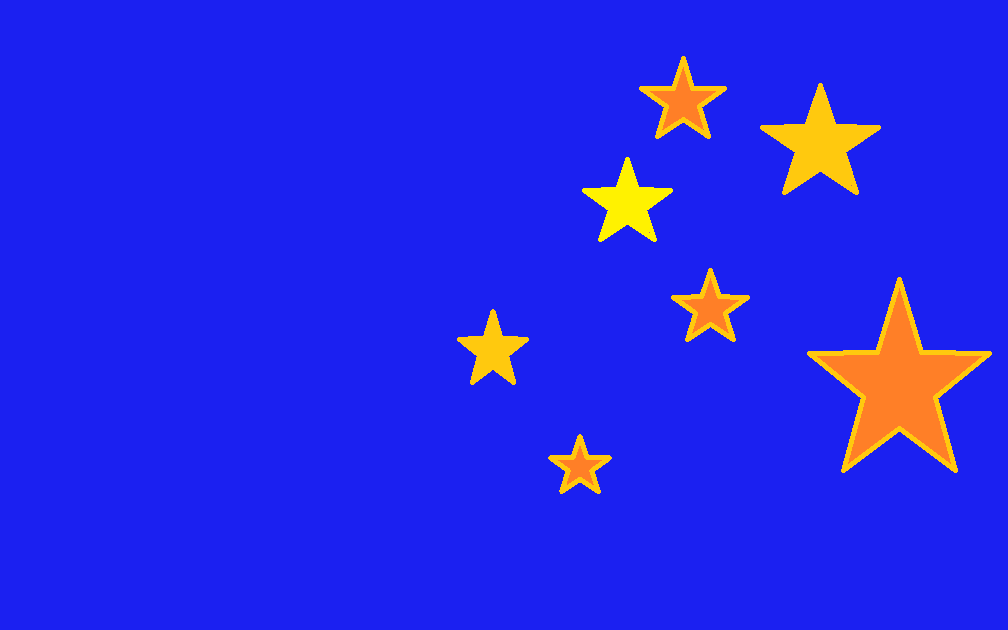
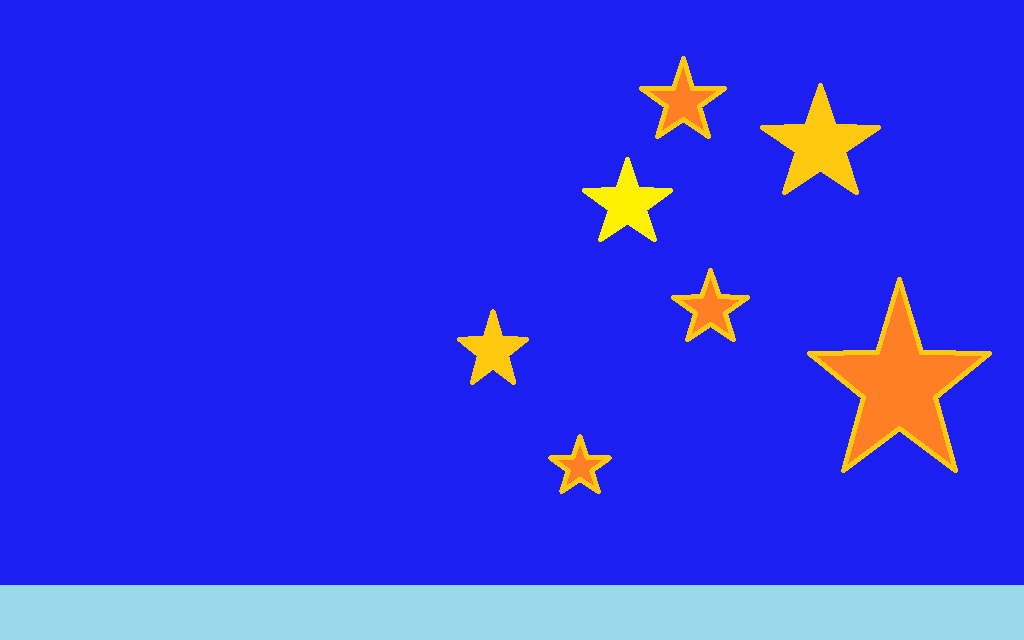
Stilat desktopen & knappen.

diff --git a/5-pwd/style.css b/5-pwd/style.css
@@ -1,3 +1,66 @@
-body
-{
+/* CSS-Reset */
+html, body, div, span, applet, object, iframe,
+h1, h2, h3, h4, h5, h6, p, blockquote, pre,
+a, abbr, acronym, address, big, cite, code,
+del, dfn, em, img, ins, kbd, q, s, samp,
+small, strike, strong, sub, sup, tt, var,
+b, u, i, center,
+dl, dt, dd, ol, ul, li,
+fieldset, form, label, legend,
+table, caption, tbody, tfoot, thead, tr, th, td,
+article, aside, canvas, details, embed, 
+figure, figcaption, footer, header, hgroup, 
+menu, nav, output, ruby, section, summary,
+time, mark, audio, video {
+	margin: 0;
+	padding: 0;
+	border: 0;
+	font-size: 100%;
+	font: inherit;
+	vertical-align: baseline;
+}
+/* HTML5 display-role reset for older browsers */
+article, aside, details, figcaption, figure, 
+footer, header, hgroup, menu, nav, section {
+	display: block;
+}
+body {
+	line-height: 1;
+}
+ol, ul {
+	list-style: none;
+}
+blockquote, q {
+	quotes: none;
+}
+blockquote:before, blockquote:after,
+q:before, q:after {
+	content: '';
+	content: none;
+}
+table {
+	border-collapse: collapse;
+	border-spacing: 0;
+}
+
+/* Min CSS-kod */
+body {
+    background-color:black;
+}
+
+#desktop {
+    height:640px;
+    width:1024px;
+    background-image:url('defaultbackground.png');
+    margin-left:325px;
+    margin-top:150px;
+}
+
+#button {
+    margin-top:587px;
+    margin-left:5px;
+    height:50px;
+    -moz-border-radius: 15px;
+    border:1px solid black;
+    border-radius: 15px;
 }

diff --git a/5-pwd/index.html b/5-pwd/index.html
@@ -7,10 +7,8 @@
     <link rel="stylesheet" href="style.css" />
 </head>
 <body>
-    <div id="background">
-        <div id="foreground">
-            <div id="button"></div>
-        </div>
+    <div id="desktop">
+        <input id="button" type="image" src="buttonicon.png" value=""/>
     </div>
 </body>
 </html>
